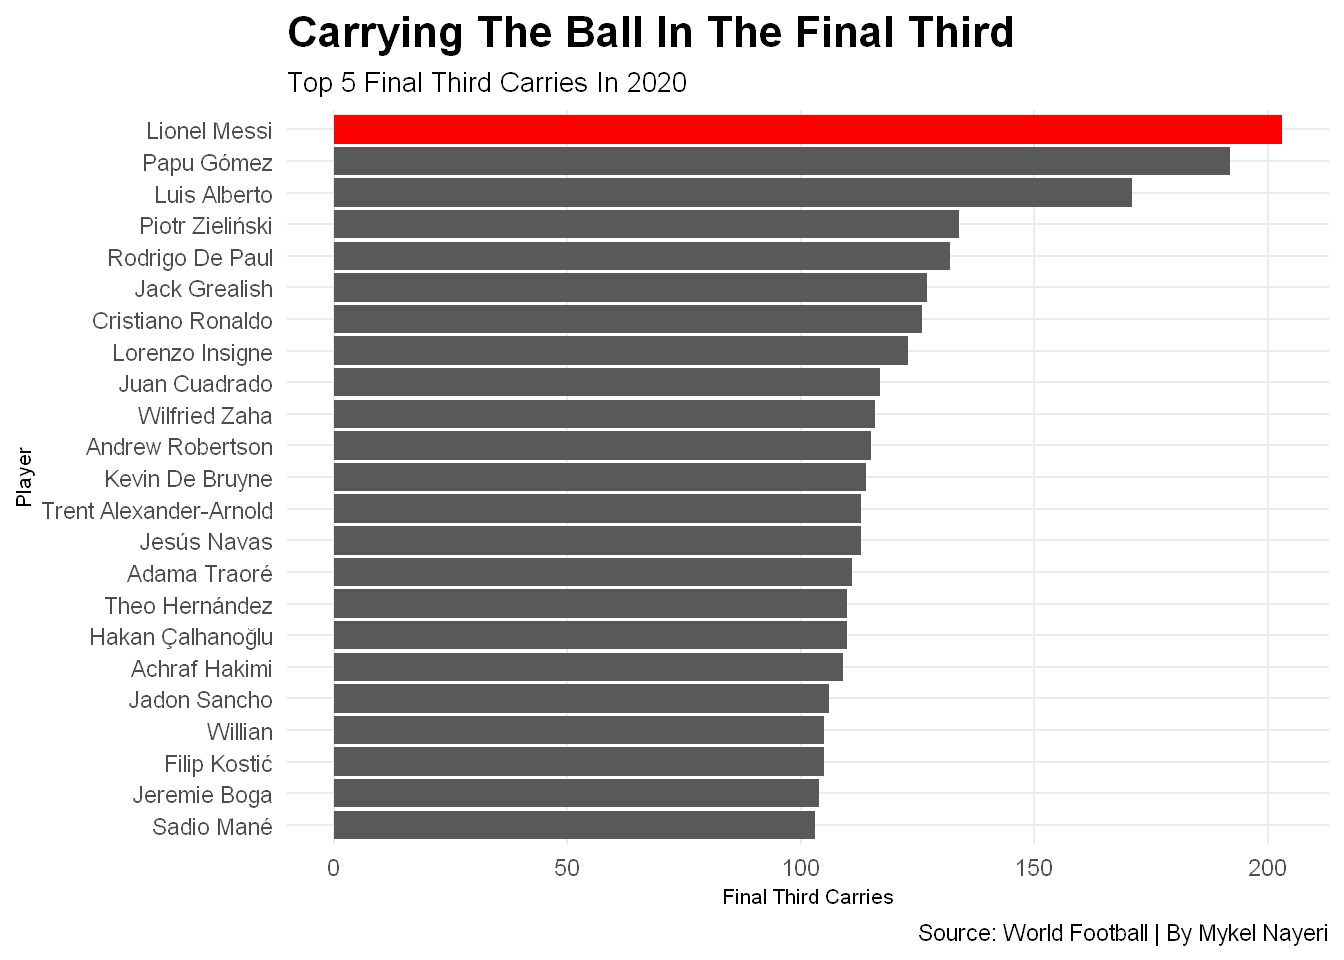
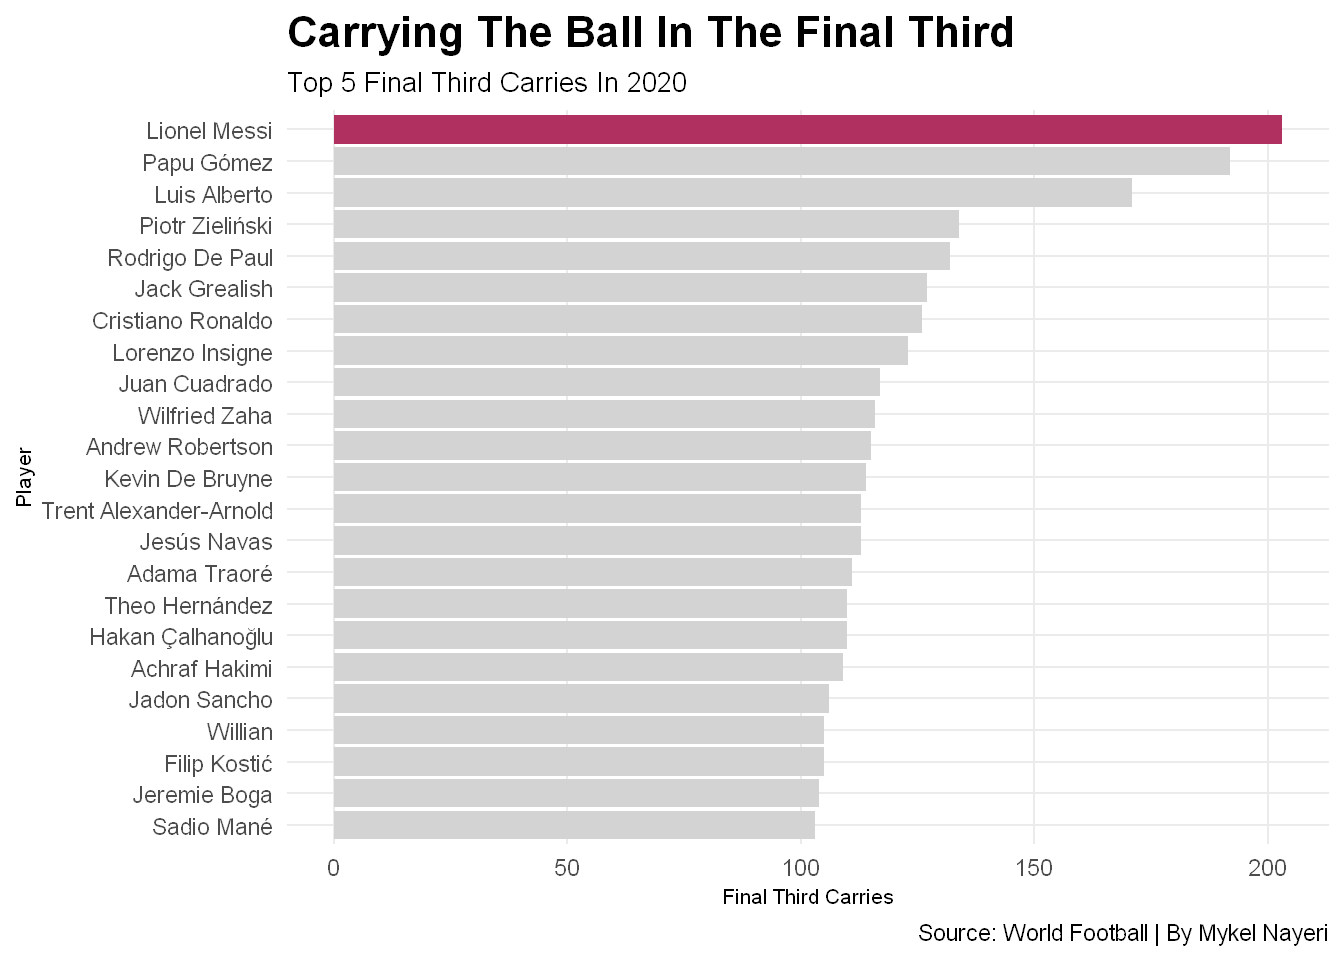
finished done now

Changed region(s): [[0.25, 0.0938, 0.9688, 0.875]]

diff --git a/posts/who-won-the-covid-ballon-dor/index.html b/posts/who-won-the-covid-ballon-dor/index.html
@@ -286,17 +286,19 @@ code span.wa { color: #60a0b0; font-weight: bold; font-style: italic; } /* Warni
 <span id="cb12-2"><a href="#cb12-2" aria-hidden="true" tabindex="-1"></a>  <span class="fu">geom_beeswarm</span>(<span class="at">data=</span>goals, <span class="fu">aes</span>(<span class="at">x=</span>Gls_Standard, <span class="at">y=</span>Comp), <span class="at">size =</span> <span class="dv">3</span>, <span class="at">color=</span><span class="st">"green"</span>) <span class="sc">+</span></span>
 <span id="cb12-3"><a href="#cb12-3" aria-hidden="true" tabindex="-1"></a>  <span class="fu">geom_beeswarm</span>(<span class="at">data=</span>RL1, <span class="fu">aes</span>(<span class="at">x=</span>Gls_Standard, <span class="at">y=</span>Comp), <span class="at">size =</span> <span class="dv">3</span>, <span class="at">color=</span><span class="st">"red"</span>) <span class="sc">+</span></span>
 <span id="cb12-4"><a href="#cb12-4" aria-hidden="true" tabindex="-1"></a>  <span class="fu">geom_beeswarm</span>(<span class="at">data=</span>CI, <span class="fu">aes</span>(<span class="at">x=</span>Gls_Standard, <span class="at">y=</span>Comp), <span class="at">size =</span> <span class="dv">3</span>, <span class="at">color=</span><span class="st">"blue"</span>) <span class="sc">+</span></span>
-<span id="cb12-5"><a href="#cb12-5" aria-hidden="true" tabindex="-1"></a></span>
-<span id="cb12-6"><a href="#cb12-6" aria-hidden="true" tabindex="-1"></a>  <span class="co">#geom_text(data=RL1, aes(x=Mins_Per_90, y=xG_Expected, label=Player)) +</span></span>
-<span id="cb12-7"><a href="#cb12-7" aria-hidden="true" tabindex="-1"></a>  <span class="co">#geom_encircle(data=RL1, aes(x=Mins_Per_90, y=xG_Expected), s_shape=.1, expand=.01, colour="Purple")+  </span></span>
-<span id="cb12-8"><a href="#cb12-8" aria-hidden="true" tabindex="-1"></a>  <span class="fu">labs</span>(<span class="at">x=</span><span class="st">"Player"</span>, <span class="at">y=</span><span class="st">"Goals Scored"</span>, <span class="at">title=</span><span class="st">"2020 Top Goalscorers"</span>, <span class="at">subtitle=</span><span class="st">"Top 5 Goalscorers During The COVID Season"</span>, <span class="at">caption=</span><span class="st">"Source: World Football | By Mykel Nayeri"</span>) <span class="sc">+</span> </span>
-<span id="cb12-9"><a href="#cb12-9" aria-hidden="true" tabindex="-1"></a>  <span class="fu">theme_minimal</span>() <span class="sc">+</span> </span>
-<span id="cb12-10"><a href="#cb12-10" aria-hidden="true" tabindex="-1"></a>  <span class="fu">theme</span>(</span>
-<span id="cb12-11"><a href="#cb12-11" aria-hidden="true" tabindex="-1"></a>    <span class="at">plot.title =</span> <span class="fu">element_text</span>(<span class="at">size =</span> <span class="dv">16</span>, <span class="at">face =</span> <span class="st">"bold"</span>),</span>
-<span id="cb12-12"><a href="#cb12-12" aria-hidden="true" tabindex="-1"></a>    <span class="at">axis.title =</span> <span class="fu">element_text</span>(<span class="at">size =</span> <span class="dv">8</span>), </span>
-<span id="cb12-13"><a href="#cb12-13" aria-hidden="true" tabindex="-1"></a>    <span class="at">plot.subtitle =</span> <span class="fu">element_text</span>(<span class="at">size=</span><span class="dv">10</span>), </span>
-<span id="cb12-14"><a href="#cb12-14" aria-hidden="true" tabindex="-1"></a>    <span class="at">panel.grid.minor =</span> <span class="fu">element_blank</span>()</span>
-<span id="cb12-15"><a href="#cb12-15" aria-hidden="true" tabindex="-1"></a>    )</span></code><button title="Copy to Clipboard" class="code-copy-button"><i class="bi"></i></button></pre></div>
+<span id="cb12-5"><a href="#cb12-5" aria-hidden="true" tabindex="-1"></a>  <span class="fu">geom_text</span>(<span class="at">data=</span>RL1, <span class="fu">aes</span>(<span class="at">x=</span>Gls_Standard, <span class="at">y=</span>Comp, <span class="at">label=</span>Player)) <span class="sc">+</span></span>
+<span id="cb12-6"><a href="#cb12-6" aria-hidden="true" tabindex="-1"></a>  <span class="fu">geom_text</span>(<span class="at">data=</span>CI, <span class="fu">aes</span>(<span class="at">x=</span>Gls_Standard, <span class="at">y=</span>Comp, <span class="at">label=</span>Player)) <span class="sc">+</span></span>
+<span id="cb12-7"><a href="#cb12-7" aria-hidden="true" tabindex="-1"></a></span>
+<span id="cb12-8"><a href="#cb12-8" aria-hidden="true" tabindex="-1"></a>  <span class="co">#geom_text(data=RL1, aes(x=Mins_Per_90, y=xG_Expected, label=Player)) +</span></span>
+<span id="cb12-9"><a href="#cb12-9" aria-hidden="true" tabindex="-1"></a>  <span class="co">#geom_encircle(data=RL1, aes(x=Mins_Per_90, y=xG_Expected), s_shape=.1, expand=.01, colour="Purple")+  </span></span>
+<span id="cb12-10"><a href="#cb12-10" aria-hidden="true" tabindex="-1"></a>  <span class="fu">labs</span>(<span class="at">x=</span><span class="st">"Player"</span>, <span class="at">y=</span><span class="st">"Goals Scored"</span>, <span class="at">title=</span><span class="st">"2020 Top Goalscorers"</span>, <span class="at">subtitle=</span><span class="st">"Top 5 Goalscorers During The COVID Season"</span>, <span class="at">caption=</span><span class="st">"Source: World Football | By Mykel Nayeri"</span>) <span class="sc">+</span> </span>
+<span id="cb12-11"><a href="#cb12-11" aria-hidden="true" tabindex="-1"></a>  <span class="fu">theme_minimal</span>() <span class="sc">+</span> </span>
+<span id="cb12-12"><a href="#cb12-12" aria-hidden="true" tabindex="-1"></a>  <span class="fu">theme</span>(</span>
+<span id="cb12-13"><a href="#cb12-13" aria-hidden="true" tabindex="-1"></a>    <span class="at">plot.title =</span> <span class="fu">element_text</span>(<span class="at">size =</span> <span class="dv">16</span>, <span class="at">face =</span> <span class="st">"bold"</span>),</span>
+<span id="cb12-14"><a href="#cb12-14" aria-hidden="true" tabindex="-1"></a>    <span class="at">axis.title =</span> <span class="fu">element_text</span>(<span class="at">size =</span> <span class="dv">8</span>), </span>
+<span id="cb12-15"><a href="#cb12-15" aria-hidden="true" tabindex="-1"></a>    <span class="at">plot.subtitle =</span> <span class="fu">element_text</span>(<span class="at">size=</span><span class="dv">10</span>), </span>
+<span id="cb12-16"><a href="#cb12-16" aria-hidden="true" tabindex="-1"></a>    <span class="at">panel.grid.minor =</span> <span class="fu">element_blank</span>()</span>
+<span id="cb12-17"><a href="#cb12-17" aria-hidden="true" tabindex="-1"></a>    )</span></code><button title="Copy to Clipboard" class="code-copy-button"><i class="bi"></i></button></pre></div>
 </details>
 <div class="cell-output-display">
 <p><img src="index_files/figure-html/unnamed-chunk-6-1.png" class="img-fluid" width="672"></p>
@@ -363,17 +365,18 @@ code span.wa { color: #60a0b0; font-weight: bold; font-style: italic; } /* Warni
 <summary>Code</summary>
 <div class="sourceCode cell-code" id="cb20"><pre class="sourceCode r code-with-copy"><code class="sourceCode r"><span id="cb20-1"><a href="#cb20-1" aria-hidden="true" tabindex="-1"></a><span class="fu">ggplot</span>() <span class="sc">+</span> </span>
 <span id="cb20-2"><a href="#cb20-2" aria-hidden="true" tabindex="-1"></a>  <span class="fu">geom_bar</span>(<span class="at">data=</span>ftc, <span class="fu">aes</span>(<span class="at">x=</span><span class="fu">reorder</span>(Player, Final_Third_Carries), <span class="at">weight=</span>Final_Third_Carries)) <span class="sc">+</span> </span>
-<span id="cb20-3"><a href="#cb20-3" aria-hidden="true" tabindex="-1"></a>  <span class="fu">geom_bar</span>(<span class="at">data=</span>LM, <span class="fu">aes</span>(<span class="at">x=</span><span class="fu">reorder</span>(Player, Final_Third_Carries), <span class="at">weight=</span>Final_Third_Carries),<span class="at">fill=</span><span class="st">"red"</span>) <span class="sc">+</span> </span>
-<span id="cb20-4"><a href="#cb20-4" aria-hidden="true" tabindex="-1"></a>  <span class="fu">scale_fill_manual</span>(<span class="at">values =</span> <span class="st">"red"</span>) <span class="sc">+</span></span>
-<span id="cb20-5"><a href="#cb20-5" aria-hidden="true" tabindex="-1"></a>  <span class="fu">coord_flip</span>()<span class="sc">+</span> </span>
-<span id="cb20-6"><a href="#cb20-6" aria-hidden="true" tabindex="-1"></a>  <span class="fu">labs</span>(<span class="at">x=</span><span class="st">"Player"</span>, <span class="at">y=</span><span class="st">"Final Third Carries"</span>, <span class="at">title=</span><span class="st">"Carrying The Ball In The Final Third"</span>, <span class="at">subtitle=</span><span class="st">"Top 5 Final Third Carries In 2020"</span>, <span class="at">caption=</span><span class="st">"Source: World Football | By Mykel Nayeri"</span>) <span class="sc">+</span> </span>
-<span id="cb20-7"><a href="#cb20-7" aria-hidden="true" tabindex="-1"></a>  <span class="fu">theme_minimal</span>() <span class="sc">+</span> </span>
-<span id="cb20-8"><a href="#cb20-8" aria-hidden="true" tabindex="-1"></a>  <span class="fu">theme</span>(</span>
-<span id="cb20-9"><a href="#cb20-9" aria-hidden="true" tabindex="-1"></a>    <span class="at">plot.title =</span> <span class="fu">element_text</span>(<span class="at">size =</span> <span class="dv">16</span>, <span class="at">face =</span> <span class="st">"bold"</span>),</span>
-<span id="cb20-10"><a href="#cb20-10" aria-hidden="true" tabindex="-1"></a>    <span class="at">axis.title =</span> <span class="fu">element_text</span>(<span class="at">size =</span> <span class="dv">8</span>), </span>
-<span id="cb20-11"><a href="#cb20-11" aria-hidden="true" tabindex="-1"></a>    <span class="at">plot.subtitle =</span> <span class="fu">element_text</span>(<span class="at">size=</span><span class="dv">10</span>), </span>
-<span id="cb20-12"><a href="#cb20-12" aria-hidden="true" tabindex="-1"></a>    <span class="at">panel.grid.minor =</span> <span class="fu">element_blank</span>()</span>
-<span id="cb20-13"><a href="#cb20-13" aria-hidden="true" tabindex="-1"></a>)</span></code><button title="Copy to Clipboard" class="code-copy-button"><i class="bi"></i></button></pre></div>
+<span id="cb20-3"><a href="#cb20-3" aria-hidden="true" tabindex="-1"></a>  <span class="fu">geom_bar</span>(<span class="at">data=</span>ftc, <span class="fu">aes</span>(<span class="at">x=</span><span class="fu">reorder</span>(Player, Final_Third_Carries), <span class="at">weight=</span>Final_Third_Carries),<span class="at">fill=</span><span class="st">"light grey"</span>) <span class="sc">+</span> </span>
+<span id="cb20-4"><a href="#cb20-4" aria-hidden="true" tabindex="-1"></a>  <span class="fu">geom_bar</span>(<span class="at">data=</span>LM, <span class="fu">aes</span>(<span class="at">x=</span><span class="fu">reorder</span>(Player, Final_Third_Carries), <span class="at">weight=</span>Final_Third_Carries),<span class="at">fill=</span><span class="st">"maroon"</span>) <span class="sc">+</span> </span>
+<span id="cb20-5"><a href="#cb20-5" aria-hidden="true" tabindex="-1"></a>  <span class="fu">scale_fill_manual</span>(<span class="at">values =</span> <span class="st">"maroon"</span>) <span class="sc">+</span></span>
+<span id="cb20-6"><a href="#cb20-6" aria-hidden="true" tabindex="-1"></a>  <span class="fu">coord_flip</span>()<span class="sc">+</span> </span>
+<span id="cb20-7"><a href="#cb20-7" aria-hidden="true" tabindex="-1"></a>  <span class="fu">labs</span>(<span class="at">x=</span><span class="st">"Player"</span>, <span class="at">y=</span><span class="st">"Final Third Carries"</span>, <span class="at">title=</span><span class="st">"Carrying The Ball In The Final Third"</span>, <span class="at">subtitle=</span><span class="st">"Top 5 Final Third Carries In 2020"</span>, <span class="at">caption=</span><span class="st">"Source: World Football | By Mykel Nayeri"</span>) <span class="sc">+</span> </span>
+<span id="cb20-8"><a href="#cb20-8" aria-hidden="true" tabindex="-1"></a>  <span class="fu">theme_minimal</span>() <span class="sc">+</span> </span>
+<span id="cb20-9"><a href="#cb20-9" aria-hidden="true" tabindex="-1"></a>  <span class="fu">theme</span>(</span>
+<span id="cb20-10"><a href="#cb20-10" aria-hidden="true" tabindex="-1"></a>    <span class="at">plot.title =</span> <span class="fu">element_text</span>(<span class="at">size =</span> <span class="dv">16</span>, <span class="at">face =</span> <span class="st">"bold"</span>),</span>
+<span id="cb20-11"><a href="#cb20-11" aria-hidden="true" tabindex="-1"></a>    <span class="at">axis.title =</span> <span class="fu">element_text</span>(<span class="at">size =</span> <span class="dv">8</span>), </span>
+<span id="cb20-12"><a href="#cb20-12" aria-hidden="true" tabindex="-1"></a>    <span class="at">plot.subtitle =</span> <span class="fu">element_text</span>(<span class="at">size=</span><span class="dv">10</span>), </span>
+<span id="cb20-13"><a href="#cb20-13" aria-hidden="true" tabindex="-1"></a>    <span class="at">panel.grid.minor =</span> <span class="fu">element_blank</span>()</span>
+<span id="cb20-14"><a href="#cb20-14" aria-hidden="true" tabindex="-1"></a>)</span></code><button title="Copy to Clipboard" class="code-copy-button"><i class="bi"></i></button></pre></div>
 </details>
 <div class="cell-output-display">
 <p><img src="index_files/figure-html/unnamed-chunk-13-1.png" class="img-fluid" width="672"></p>

diff --git a/index.html b/index.html
@@ -166,7 +166,7 @@ ul.task-list li input[type="checkbox"] {
 
 <div class="quarto-listing quarto-listing-container-default" id="listing-listing">
 <div class="list quarto-listing-default">
-<div class="quarto-post image-right" data-index="0" data-categories="Project 1" data-listing-date-sort="1701669600000" data-listing-file-modified-sort="1681494695365" data-listing-reading-time-sort="3.435">
+<div class="quarto-post image-right" data-index="0" data-categories="Project 1" data-listing-date-sort="1701669600000" data-listing-file-modified-sort="1681495075948" data-listing-reading-time-sort="3.535">
 <div class="thumbnail">
 <p><a href="./posts/who-won-the-covid-ballon-dor/index.html"> <img src="./posts/who-won-the-covid-ballon-dor/image.png" class="thumnail-image"> </a></p>
 </div>
